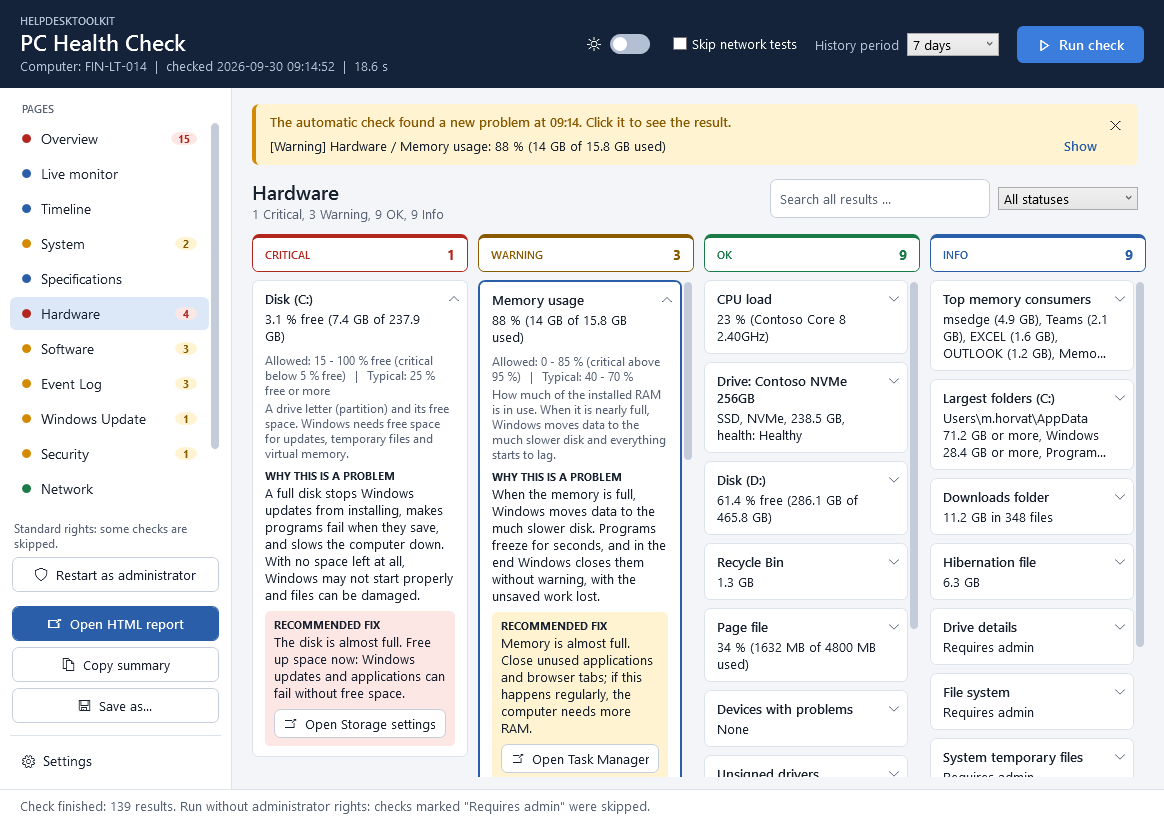
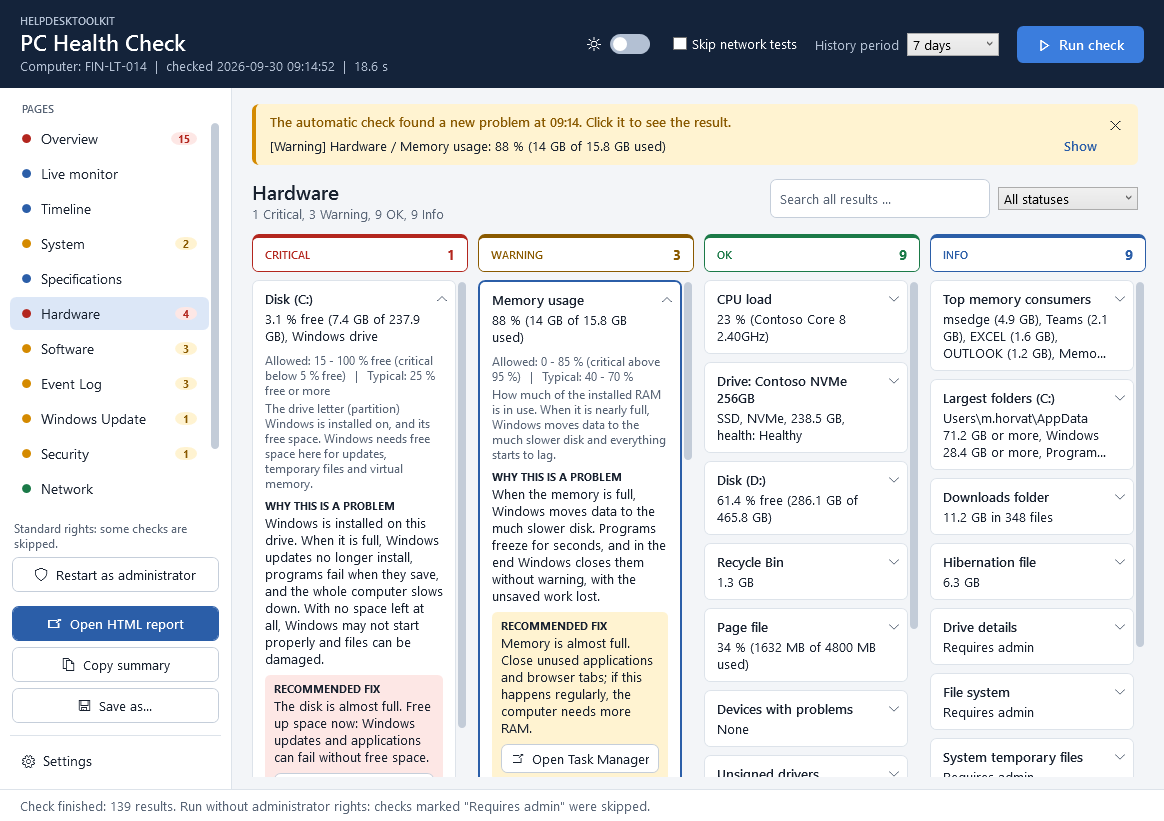
feat: tell the drive of Windows from the other drives
The disk space check marks the drive Windows is installed on (", Windows
drive" at the end of its value). Its explanation, the reason why a full
drive is a problem and the advice are now chosen per drive: a full data
drive no longer gets the text about Windows updates and a Windows that
may not start. The same goes for the advice on the largest folders and
for the drives in the Live monitor.

The reason for a drive without the mark makes no claim about Windows, so
it also fits reports of older versions.

Changed region(s): [[0.2165, 0.335, 0.4021, 0.944], [0.2474, 0.3959, 0.3093, 0.4263]]

diff --git a/docs/sample-report.html b/docs/sample-report.html
@@ -592,13 +592,14 @@ table.timeline .times {
 <a href="#cat-network"><span class="dot ok"></span>Network</a>
 <a href="#cat-printers"><span class="dot ok"></span>Printers</a>
 <a href="#cat-services"><span class="dot warning"></span>Services</a>
+<a href="#timeline"><span class="dot info"></span>Timeline</a>
 </nav>
 <section class="card" id="problems">
 <div class="card-header"><h2>Problems and recommendations</h2><span class="counts">15 to review</span></div>
 <table>
 <thead><tr><th class="col-status">Status</th><th class="col-check">Check</th><th>Result</th></tr></thead>
 <tbody>
-<tr><td class="col-status"><span class="badge critical">Critical</span></td><td class="col-check"><div class="check">Disk (C:) <span class="category-label">(Hardware)</span></div></td><td><div class="value">3.1 % free (7.4 GB of 237.9 GB)</div><div class="reference"><span><b>Allowed:</b> 15 - 100 % free (critical below 5 % free)</span><span><b>Typical:</b> 25 % free or more</span></div><div class="risk">A full disk stops Windows updates from installing, makes programs fail when they save, and slows the computer down. With no space left at all, Windows may not start properly and files can be damaged.</div><div class="recommendation">The disk is almost full. Free up space now: Windows updates and applications can fail without free space.</div></td></tr>
+<tr><td class="col-status"><span class="badge critical">Critical</span></td><td class="col-check"><div class="check">Disk (C:) <span class="category-label">(Hardware)</span></div></td><td><div class="value">3.1 % free (7.4 GB of 237.9 GB), Windows drive</div><div class="reference"><span><b>Allowed:</b> 15 - 100 % free (critical below 5 % free)</span><span><b>Typical:</b> 25 % free or more</span></div><div class="risk">Windows is installed on this drive. When it is full, Windows updates no longer install, programs fail when they save, and the whole computer slows down. With no space left at all, Windows may not start properly and files can be damaged.</div><div class="recommendation">The disk is almost full. Free up space now: Windows updates and applications can fail without free space.</div></td></tr>
 <tr><td class="col-status"><span class="badge warning">Warning</span></td><td class="col-check"><div class="check">Windows support <span class="category-label">(System)</span></div></td><td><div class="value">Supported until 2026-10-13 (13 days left)</div><div class="risk">A Windows version without support gets no more security updates. Every weakness found from then on stays open for good, and newer programs and devices gradually stop working with it.</div><div class="recommendation">Support for this Windows version ends soon. Install the newest feature update: Settings &gt; Windows Update.</div></td></tr>
 <tr><td class="col-status"><span class="badge warning">Warning</span></td><td class="col-check"><div class="check">Uptime <span class="category-label">(System)</span></div></td><td><div class="value">12 d 4 h 37 min</div><div class="reference"><span><b>Allowed:</b> 0 - 7 days</span><span><b>Typical:</b> 0 - 3 days</span></div><div class="risk">Windows that runs for many days without a restart gets slower: the memory fills up with leftovers, updates stay half installed and small faults pile up. In the end programs hang, and security updates that wait for the restart are not active.</div><div class="recommendation">Restart the computer; it has been running for more than 7 days. Use Restart, not Shut down: with Fast Startup enabled a shutdown does not reset the uptime.</div></td></tr>
 <tr><td class="col-status"><span class="badge warning">Warning</span></td><td class="col-check"><div class="check">Memory usage <span class="category-label">(Hardware)</span></div></td><td><div class="value">88 % (14 GB of 15.8 GB used)</div><div class="reference"><span><b>Allowed:</b> 0 - 85 % (critical above 95 %)</span><span><b>Typical:</b> 40 - 70 %</span></div><div class="risk">When the memory is full, Windows moves data to the much slower disk. Programs freeze for seconds, and in the end Windows closes them without warning, with the unsaved work lost.</div><div class="recommendation">Memory is almost full. Close unused applications and browser tabs; if this happens regularly, the computer needs more RAM.</div></td></tr>
@@ -668,13 +669,13 @@ table.timeline .times {
 <table>
 <thead><tr><th class="col-status">Status</th><th class="col-check">Check</th><th>Result</th></tr></thead>
 <tbody>
-<tr><td class="col-status"><span class="badge critical">Critical</span></td><td class="col-check"><div class="check">Disk (C:)</div><div class="description">A drive letter (partition) and its free space. Windows needs free space for updates, temporary files and virtual memory.</div></td><td><div class="value">3.1 % free (7.4 GB of 237.9 GB)</div><div class="reference"><span><b>Allowed:</b> 15 - 100 % free (critical below 5 % free)</span><span><b>Typical:</b> 25 % free or more</span></div><div class="risk">A full disk stops Windows updates from installing, makes programs fail when they save, and slows the computer down. With no space left at all, Windows may not start properly and files can be damaged.</div><div class="recommendation">The disk is almost full. Free up space now: Windows updates and applications can fail without free space.</div></td></tr>
+<tr><td class="col-status"><span class="badge critical">Critical</span></td><td class="col-check"><div class="check">Disk (C:)</div><div class="description">The drive letter (partition) Windows is installed on, and its free space. Windows needs free space here for updates, temporary files and virtual memory.</div></td><td><div class="value">3.1 % free (7.4 GB of 237.9 GB), Windows drive</div><div class="reference"><span><b>Allowed:</b> 15 - 100 % free (critical below 5 % free)</span><span><b>Typical:</b> 25 % free or more</span></div><div class="risk">Windows is installed on this drive. When it is full, Windows updates no longer install, programs fail when they save, and the whole computer slows down. With no space left at all, Windows may not start properly and files can be damaged.</div><div class="recommendation">The disk is almost full. Free up space now: Windows updates and applications can fail without free space.</div></td></tr>
 <tr><td class="col-status"><span class="badge warning">Warning</span></td><td class="col-check"><div class="check">Memory usage</div><div class="description">How much of the installed RAM is in use. When it is nearly full, Windows moves data to the much slower disk and everything starts to lag.</div></td><td><div class="value">88 % (14 GB of 15.8 GB used)</div><div class="reference"><span><b>Allowed:</b> 0 - 85 % (critical above 95 %)</span><span><b>Typical:</b> 40 - 70 %</span></div><div class="risk">When the memory is full, Windows moves data to the much slower disk. Programs freeze for seconds, and in the end Windows closes them without warning, with the unsaved work lost.</div><div class="recommendation">Memory is almost full. Close unused applications and browser tabs; if this happens regularly, the computer needs more RAM.</div></td></tr>
 <tr><td class="col-status"><span class="badge warning">Warning</span></td><td class="col-check"><div class="check">Drive: Contoso HDD 500GB</div><div class="description">A physical SSD or hard disk and the health state it reports about itself. A drive that reports problems can fail and take the data with it.</div></td><td><div class="value">HDD, SATA, 465.8 GB, health: Warning</div><div class="risk">A drive that reports problems can fail completely at any time. Everything stored on it is then gone, unless there is a backup.</div><div class="recommendation">The drive reports a problem and may fail. Back up the data now and plan to replace the drive.</div></td></tr>
 <tr><td class="col-status"><span class="badge warning">Warning</span></td><td class="col-check"><div class="check">Temporary files</div><div class="description">Files that programs left in the temporary folder of the user. They are safe to remove and often the quickest way to free space on a full disk.</div></td><td><div class="value">6.8 GB</div><div class="reference"><span><b>Allowed:</b> 0 - 5 GB</span></div><div class="risk">These files only take up space. On a disk that is getting full they take away the room Windows needs for updates and for its own work.</div><div class="recommendation">Temporary files take up a lot of space. Remove them in Settings &gt; System &gt; Storage &gt; Temporary files.</div></td></tr>
 <tr><td class="col-status"><span class="badge ok">OK</span></td><td class="col-check"><div class="check">CPU load</div><div class="description">How busy the processor was while the check ran. Constantly high load makes the whole computer slow and the fans loud.</div></td><td><div class="value">23 % (Contoso Core 8 2.40GHz)</div><div class="reference"><span><b>Allowed:</b> 0 - 85 % (critical above 95 %)</span><span><b>Typical:</b> 5 - 30 % when idle</span></div></td></tr>
 <tr><td class="col-status"><span class="badge ok">OK</span></td><td class="col-check"><div class="check">Drive: Contoso NVMe 256GB</div><div class="description">A physical SSD or hard disk and the health state it reports about itself. A drive that reports problems can fail and take the data with it.</div></td><td><div class="value">SSD, NVMe, 238.5 GB, health: Healthy</div></td></tr>
-<tr><td class="col-status"><span class="badge ok">OK</span></td><td class="col-check"><div class="check">Disk (D:)</div><div class="description">A drive letter (partition) and its free space. Windows needs free space for updates, temporary files and virtual memory.</div></td><td><div class="value">61.4 % free (286.1 GB of 465.8 GB)</div><div class="reference"><span><b>Allowed:</b> 15 - 100 % free (critical below 5 % free)</span><span><b>Typical:</b> 25 % free or more</span></div></td></tr>
+<tr><td class="col-status"><span class="badge ok">OK</span></td><td class="col-check"><div class="check">Disk (D:)</div><div class="description">A drive letter (partition) and its free space. Windows is installed on another drive; this one holds programs or data.</div></td><td><div class="value">61.4 % free (286.1 GB of 465.8 GB)</div><div class="reference"><span><b>Allowed:</b> 15 - 100 % free (critical below 5 % free)</span><span><b>Typical:</b> 25 % free or more</span></div></td></tr>
 <tr><td class="col-status"><span class="badge ok">OK</span></td><td class="col-check"><div class="check">Recycle Bin</div><div class="description">Deleted files still take up disk space until the Recycle Bin is emptied.</div></td><td><div class="value">1.3 GB</div><div class="reference"><span><b>Allowed:</b> 0 - 10 GB</span></div></td></tr>
 <tr><td class="col-status"><span class="badge ok">OK</span></td><td class="col-check"><div class="check">Page file</div><div class="description">A file on the disk that Windows uses as extra memory when the RAM is full. Heavy use means the computer is short of memory and slow.</div></td><td><div class="value">34 % (1632 MB of 4800 MB used)</div><div class="reference"><span><b>Allowed:</b> 0 - 80 %</span><span><b>Typical:</b> 0 - 30 %</span></div></td></tr>
 <tr><td class="col-status"><span class="badge ok">OK</span></td><td class="col-check"><div class="check">Devices with problems</div><div class="description">Hardware that Windows found but cannot use, shown with a yellow mark in Device Manager. Usually the driver is missing or failed to start.</div></td><td><div class="value">None</div></td></tr>

diff --git a/README.hr.md b/README.hr.md
@@ -25,7 +25,7 @@ engleskom, pa su i nazivi u ovom dokumentu navedeni onako kako pišu na englesko
 |---|---|
 | System | Ime računala, verzija i build Windowsa, ima li ta verzija još Microsoftovu podršku, datum instalacije, proizvođač i model, domena ili radna grupa, prijavljeni korisnik, vremenska zona, uptime, indeks stabilnosti, aktivacija Windowsa, programi koji se pokreću sa sustavom, zakazani zadaci koji nisu dio Windowsa, plan napajanja, Fast Startup, trajanje zadnjeg pokretanja\*, veličina korisničkih profila\*, spremnost za Windows 11 (na Windowsu 10, sa svakim zahtjevom posebno), zadnji rezultat System File Checkera, što je Windows okrivio za sporo pokretanje\* |
 | Specifications | Procesor s veličinom cache memorije i stanjem virtualizacije, raspored memorije i slobodni utori, svaki memorijski modul (utor, brzina, proizvođač, kataloški broj), grafičke kartice s memorijom i datumom drivera, monitori, fizički diskovi s verzijom firmwarea, optički pogoni, audio uređaji, tipkovnice i pokazivački uređaji, matična ploča, BIOS/UEFI, serijski broj, savjet za stari BIOS, gdje se provjerava jamstvo |
-| Hardware | Opterećenje CPU-a, zauzeće RAM-a i najveći potrošači memorije, zdravlje svakog fizičkog diska, slobodan prostor po disku, najveće mape na disku koji se puni, prostor koji se može osloboditi (privremene datoteke, Downloads, koš za smeće), datoteka hibernacije, page file, uređaji bez ispravnog drivera, nepotpisani driveri, stari driveri, napunjenost i zdravlje baterije (preostali kapacitet u odnosu na novu bateriju), detalji diska (temperatura, istrošenost, sati rada, neispravljene greške)\*, diskovi označeni za provjeru\*, privremene datoteke Windowsa\*, rezultat zadnjeg testa memorije |
+| Hardware | Opterećenje CPU-a, zauzeće RAM-a i najveći potrošači memorije, zdravlje svakog fizičkog diska, slobodan prostor po disku (disk na kojem je Windows je označen, a pun podatkovni disk dobiva drugačiji savjet nego pun disk s Windowsom), najveće mape na disku koji se puni, prostor koji se može osloboditi (privremene datoteke, Downloads, koš za smeće), datoteka hibernacije, page file, uređaji bez ispravnog drivera, nepotpisani driveri, stari driveri, napunjenost i zdravlje baterije (preostali kapacitet u odnosu na novu bateriju), detalji diska (temperatura, istrošenost, sati rada, neispravljene greške)\*, diskovi označeni za provjeru\*, privremene datoteke Windowsa\*, rezultat zadnjeg testa memorije |
 | Software | Instalirani programi s verzijama, nedavno instalirani programi, rušenja aplikacija po programu, proširenja preglednika, zadani preglednik, programi koji više ne dobivaju sigurnosna ažuriranja, programi za koje postoji novija verzija (pita se winget), Microsoft Office s kanalom ažuriranja, veličina Outlook datoteka s poštom |
 | Event Log | Neočekivana gašenja, plavi ekrani, greške diska, greške hardvera (WHEA), kritični događaji i greške u System i Application logu u zadnjih N dana, najčešći izvori |
 | Windows Update | Zadnje instalirano ažuriranje, ažuriranja koja čekaju instalaciju, ažuriranja koja se nisu uspjela instalirati, čeka li se restart, jesu li ažuriranja pauzirana |

diff --git a/README.md b/README.md
@@ -22,7 +22,7 @@ problems it found and what to do about them.
 |---|---|
 | System | Computer name, Windows version and build, whether that version is still supported by Microsoft, install date, manufacturer and model, domain or workgroup, signed-in user, time zone, uptime, stability index, Windows activation, startup programs, scheduled tasks that are not part of Windows, power plan, Fast Startup, last startup duration\*, size of the user profiles\*, Windows 11 readiness (on Windows 10, with every requirement), the last System File Checker result, what Windows blamed for a slow startup\* |
 | Specifications | Processor with cache sizes and virtualization state, memory layout and free slots, every memory module (slot, speed, manufacturer, part number), graphics adapters with memory and driver date, displays, physical drives with firmware version, optical drives, audio devices, keyboards and pointing devices, motherboard, BIOS/UEFI, serial number, advice for an old BIOS, where the warranty is looked up |
-| Hardware | CPU load, memory usage and the top memory consumers, health of every physical drive, free space per disk, the largest folders of a disk that is running full, space that can be freed (temporary files, Downloads, Recycle Bin), hibernation file, page file, devices without a working driver, unsigned drivers, old drivers, battery charge and battery health (capacity left compared to a new battery), drive details (temperature, wear, power-on hours, uncorrected errors)\*, drives flagged for a disk check\*, temporary files of Windows\*, result of the last memory test |
+| Hardware | CPU load, memory usage and the top memory consumers, health of every physical drive, free space per disk (the drive Windows is installed on is marked, and a full data drive gets other advice than a full Windows drive), the largest folders of a disk that is running full, space that can be freed (temporary files, Downloads, Recycle Bin), hibernation file, page file, devices without a working driver, unsigned drivers, old drivers, battery charge and battery health (capacity left compared to a new battery), drive details (temperature, wear, power-on hours, uncorrected errors)\*, drives flagged for a disk check\*, temporary files of Windows\*, result of the last memory test |
 | Software | Installed programs with versions, recently installed programs, application crashes per program, browser extensions, default browser, programs that no longer get security updates, programs with a newer version (asked from winget), Microsoft Office with its update channel, size of the Outlook mailbox files |
 | Event Log | Unexpected shutdowns, blue screens, disk errors, hardware errors (WHEA), critical events and errors in the System and Application logs for the last N days, top sources |
 | Windows Update | Last installed update, updates waiting to be installed, updates that failed to install, pending restart, paused updates |

diff --git a/CHANGELOG.md b/CHANGELOG.md
@@ -20,6 +20,9 @@ The first public version. It will be released as 1.0.0.
   "Requires admin" and are included after "Restart as administrator".
 - Disk space: the largest folders of a disk that is running full, the hibernation
   file, temporary files, Downloads and the Recycle Bin.
+- The drive Windows is installed on is recognized and marked. Why a full drive is a
+  problem, and what to do about it, is said differently for that drive and for a
+  drive that only holds data or programs.
 - Drivers and hardware: devices without a working driver, unsigned and old drivers,
   battery health, health of the drives and, with administrator rights, their
   temperature and wear.
